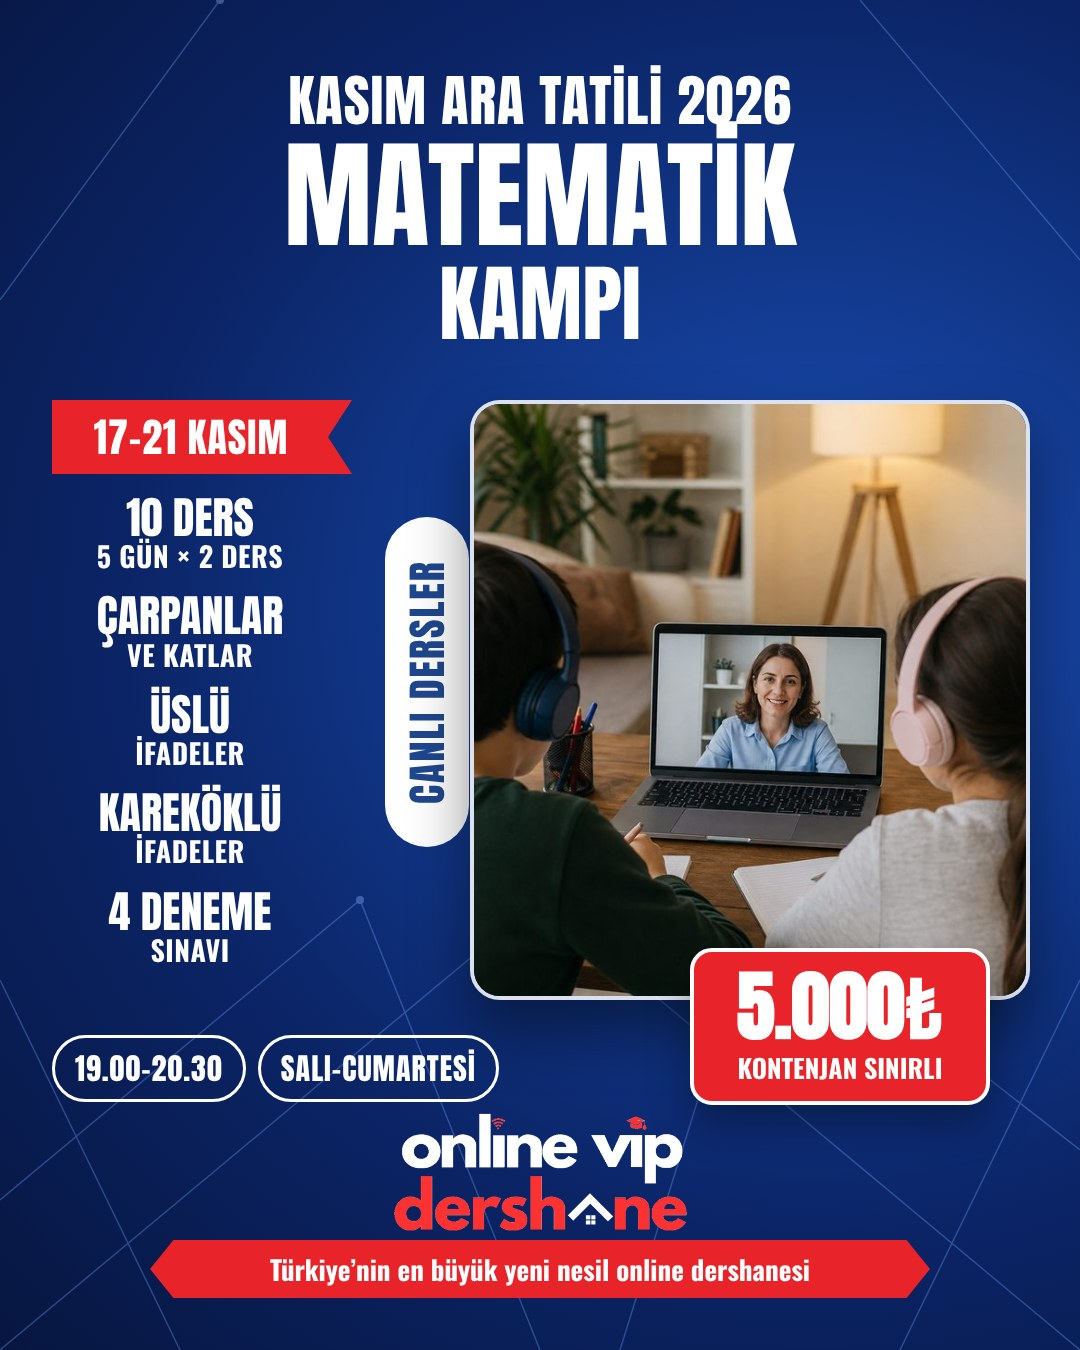
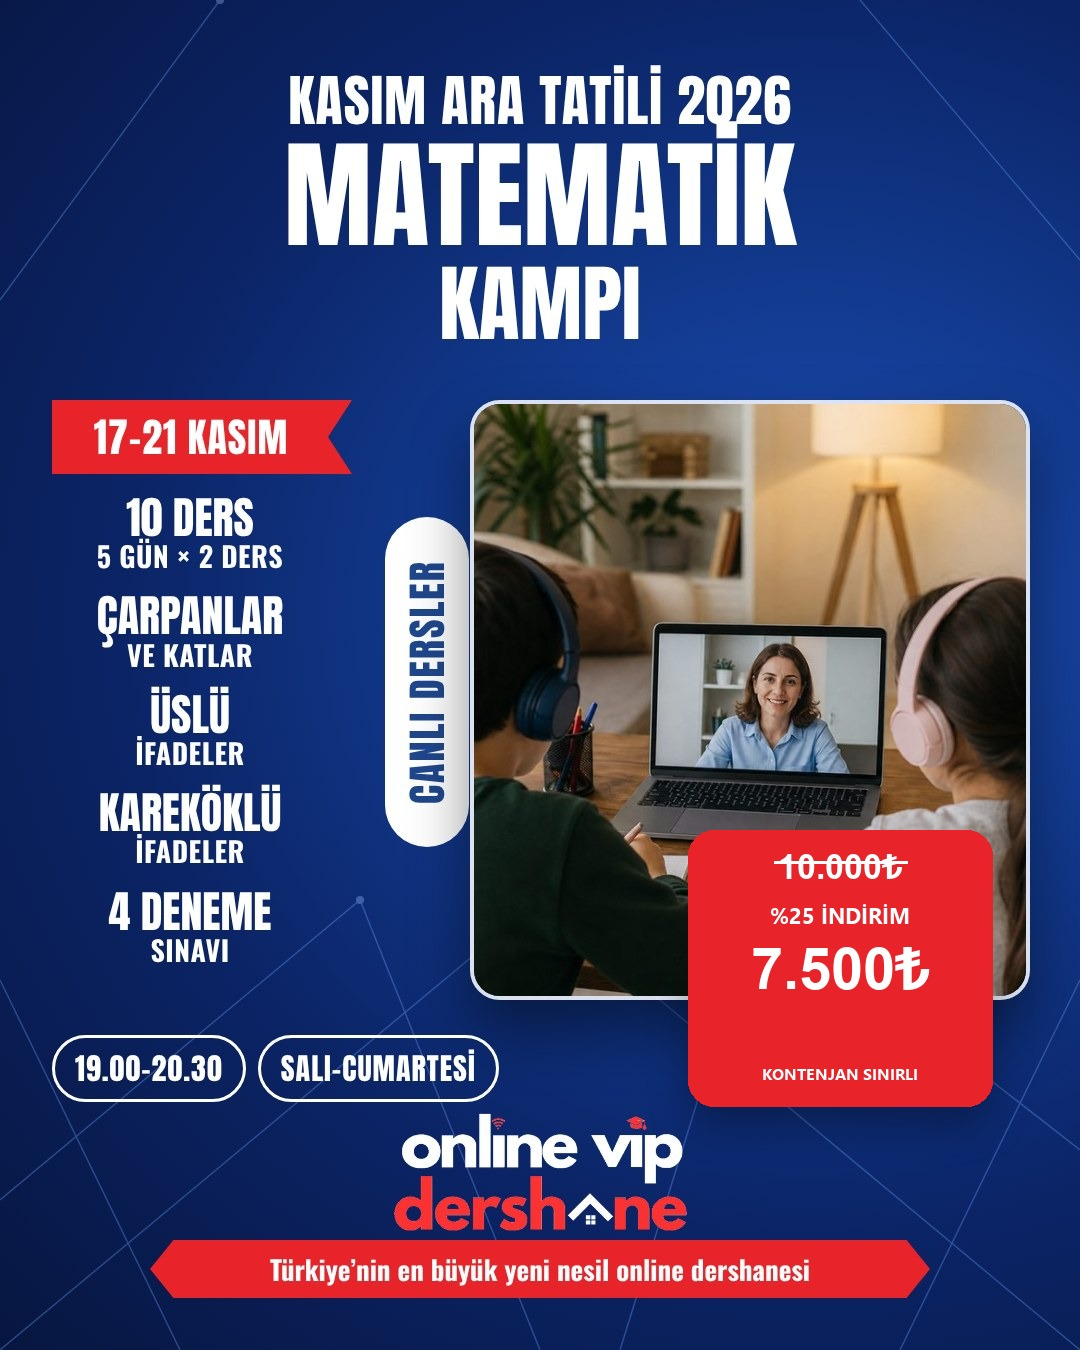
fix: Kasim ara tatil kamplari 10.000 TL yerine yuzde 25 indirimle 7.500 TL
Satis tutari 7.500 TL. Afislerde liste fiyatinin ustu cizili.

Changed region(s): [[0.6111, 0.5911, 0.9472, 0.84]]

diff --git a/programlar/ara-tatil-kamplari.html b/programlar/ara-tatil-kamplari.html
@@ -4,8 +4,8 @@
 <meta charset="UTF-8">
 <meta name="viewport" content="width=device-width,initial-scale=1.0">
 <title>Kasım Ara Tatil Kampları 2026 — Matematik ve Paragraf | Online VIP Dershane</title>
-<meta property="og:image" content="https://onlinevipdershane.com/assets/img/programlar/ara-tatil-matematik.jpg">
-<meta name="description" content="Kasım ara tatilinde online canlı kamplar: 17-21 Kasım 10 derslik Matematik Kampı ve 17-20 Kasım 7-8. sınıflara Paragraf Teknikleri Kampı. Her kamp 5.000₺.">
+<meta property="og:image" content="https://onlinevipdershane.com/assets/img/programlar/ara-tatil-matematik.jpg?v=20261110b">
+<meta name="description" content="Kasım ara tatilinde online canlı kamplar: 17-21 Kasım 10 derslik Matematik Kampı ve 17-20 Kasım 7-8. sınıflara Paragraf Teknikleri Kampı. Liste 10.000₺, %25 indirimle 7.500₺.">
 <link rel="canonical" href="https://onlinevipdershane.com/programlar/ara-tatil-kamplari.html">
[1 lines of base64/hex data omitted]
 <link href="https://fonts.googleapis.com/css2?family=Bricolage+Grotesque:wght@700;800&family=Nunito:wght@400;600;700&display=swap" rel="stylesheet">
@@ -128,9 +128,11 @@ a{text-decoration:none;color:inherit;}
 .at-chips{display:flex;flex-wrap:wrap;gap:6px;}
 .at-chips span{background:#f0f5ff;border:1px solid #dde6ff;color:#1a3fad;padding:4px 11px;border-radius:100px;font-size:12px;font-weight:700;}
 .at-camp .feat-list{margin:4px 0 6px;}
-.at-price{display:flex;align-items:baseline;gap:6px;margin-top:auto;}
+.at-price{display:flex;flex-wrap:wrap;align-items:baseline;gap:8px;margin-top:auto;}
+.at-price .at-old{font-size:18px;font-weight:700;color:#8e8e93;text-decoration:line-through;}
 .at-price strong{font-family:"Bricolage Grotesque",sans-serif;font-size:32px;font-weight:800;color:#1a1f36;}
 .at-price span{font-size:13px;color:#6e6e73;}
+.at-price .at-off{font-size:12px;font-weight:800;color:#e8232a;background:rgba(232,35,42,.08);border-radius:999px;padding:3px 8px;}
 .at-btns{display:flex;flex-wrap:wrap;gap:8px;}
 .at-btns .yk-btn{flex:1;}
 .at-hero-posters{display:flex;gap:12px;}
@@ -197,7 +199,7 @@ height="0" width="0" style="display:none;visibility:hidden"></iframe></noscript>
           <div style="height:1px;background:#f0f0f0;margin:4px 0;"></div>
           <a href="ara-tatil-kamplari.html" style="display:flex;align-items:center;gap:10px;padding:8px 10px;border-radius:8px;font-size:13px;font-weight:600;color:#1a1f36;text-decoration:none;">
             <span class="prog-list-icon" data-icon="tent"></span>
-            <span><span style="display:block;font-weight:700;font-size:13px;">Ara Tatil Kampları</span><span style="font-size:11px;color:#6e6e73;">5.000₺ · 17-21 Kasım</span></span>
+            <span><span style="display:block;font-weight:700;font-size:13px;">Ara Tatil Kampları</span><span style="font-size:11px;color:#6e6e73;"><span style="text-decoration:line-through;color:#8e8e93;margin-right:4px;">10.000₺</span>7.500₺ · %25 · 17-21 Kasım</span></span>
           </a>
           <a href="kamplar.html" style="display:flex;align-items:center;gap:10px;padding:8px 10px;border-radius:8px;font-size:13px;font-weight:600;color:#1a1f36;text-decoration:none;">
             <span class="prog-list-icon" data-icon="tent"></span>
@@ -268,7 +270,7 @@ height="0" width="0" style="display:none;visibility:hidden"></iframe></noscript>
     <div class="prog-hero-copy">
       <div class="prog-tag"><span class="ovd-icon-inline" data-icon="tent"></span> Kasım Ara Tatili &#183; 17-21 Kasım 2026 &#183; Online Canlı</div>
       <h1>Kasım Ara Tatil Kampları</h1>
-      <p>Ara tatil boşa geçmesin. Evden, canlı ve küçük gruplarla iki yoğun kamp: 10 derslik Matematik Kampı ve 7-8. sınıflara özel Paragraf Teknikleri Kampı. Her kamp 5.000&#8378;.</p>
+      <p>Ara tatil boşa geçmesin. Evden, canlı ve küçük gruplarla iki yoğun kamp: 10 derslik Matematik Kampı ve 7-8. sınıflara özel Paragraf Teknikleri Kampı. Her kamp <s>10.000&#8378;</s> yerine %25 indirimle 7.500&#8378;.</p>
       <div class="prog-meta">
         <span><span class="ovd-icon-inline" data-icon="monitor"></span> Online Canlı</span>
         <span><span class="ovd-icon-inline" data-icon="target"></span> Matematik · Paragraf</span>
@@ -280,8 +282,8 @@ height="0" width="0" style="display:none;visibility:hidden"></iframe></noscript>
       </div>
     </div>
     <div class="at-hero-posters">
-      <img src="../assets/img/programlar/ara-tatil-matematik.jpg" alt="Ara Tatil Matematik Kampı — 17-21 Kasım, 10 ders, 5.000₺" loading="eager" width="1080" height="1350">
-      <img src="../assets/img/programlar/ara-tatil-paragraf.jpg" alt="Paragraf Teknikleri Kampı — 17-20 Kasım, 7-8. sınıf, 5.000₺" loading="eager" width="1080" height="1350">
+      <img src="../assets/img/programlar/ara-tatil-matematik.jpg?v=20261110b" alt="Ara Tatil Matematik Kampı — 17-21 Kasım, 10 ders, 10.000₺ yerine 7.500₺" loading="eager" width="1080" height="1350">
+      <img src="../assets/img/programlar/ara-tatil-paragraf.jpg?v=20261110b" alt="Paragraf Teknikleri Kampı — 17-20 Kasım, 7-8. sınıf, 10.000₺ yerine 7.500₺" loading="eager" width="1080" height="1350">
     </div>
   </div>
 </section>
@@ -289,10 +291,10 @@ height="0" width="0" style="display:none;visibility:hidden"></iframe></noscript>
 <section class="yk-sec yk-sec-alt" id="fiyatlar">
   <div class="yk-wrap">
     <h2 class="yk-h2">İki kamp, tek ara tatil</h2>
-    <p class="yk-lead">İki kamp da online ve canlı. İsterseniz birini, isterseniz ikisini birlikte seçebilirsiniz; her kamp için ücret 5.000&#8378;, ek ücret yok.</p>
+    <p class="yk-lead">İki kamp da online ve canlı. İsterseniz birini, isterseniz ikisini birlikte seçebilirsiniz. Liste fiyatı 10.000&#8378;, %25 indirimle satış fiyatı 7.500&#8378;; ek ücret yok.</p>
     <div class="at-camps">
       <article class="at-camp" id="matematik">
-        <img src="../assets/img/programlar/ara-tatil-matematik.jpg" alt="Ara Tatil Matematik Kampı afişi" loading="lazy" width="1080" height="1350">
+        <img src="../assets/img/programlar/ara-tatil-matematik.jpg?v=20261110b" alt="Ara Tatil Matematik Kampı afişi" loading="lazy" width="1080" height="1350">
         <div class="at-camp-body">
           <h3>Ara Tatil Matematik Kampı</h3>
           <div class="at-chips"><span>17–21 Kasım</span><span>Salı–Cumartesi</span><span>19.00–20.30</span></div>
@@ -302,7 +304,7 @@ height="0" width="0" style="display:none;visibility:hidden"></iframe></noscript>
             <div class="feat-item">1 Genel Deneme + 3 Konu Tarama Testi (KTT) — toplam 4 deneme</div>
             <div class="feat-item">Denemelerle öğrenme düzeyi ölçülür, eksikler kamp içinde kapatılır</div>
           </div>
-          <div class="at-price"><strong>5.000 &#8378;</strong><span>/ kamp · tek ödeme</span></div>
+          <div class="at-price"><s class="at-old">10.000 &#8378;</s><span class="at-off">%25 indirim</span><strong>7.500 &#8378;</strong><span>/ kamp · tek ödeme</span></div>
           <div class="at-btns">
             <button type="button" class="yk-btn yk-btn-primary" onclick="ykSepet('araTatilMatematik')">Hemen Başvur</button>
             <a href="https://wa.me/905061877494?text=Merhaba%2C+Ara+Tatil+Matematik+Kamp%C4%B1+hakk%C4%B1nda+bilgi+almak+istiyorum." target="_blank" rel="noopener" class="yk-btn yk-btn-wa">WhatsApp</a>
@@ -310,7 +312,7 @@ height="0" width="0" style="display:none;visibility:hidden"></iframe></noscript>
         </div>
       </article>
       <article class="at-camp" id="paragraf">
-        <img src="../assets/img/programlar/ara-tatil-paragraf.jpg" alt="Paragraf Teknikleri Kampı afişi" loading="lazy" width="1080" height="1350">
+        <img src="../assets/img/programlar/ara-tatil-paragraf.jpg?v=20261110b" alt="Paragraf Teknikleri Kampı afişi" loading="lazy" width="1080" height="1350">
         <div class="at-camp-body">
           <h3>Paragraf Teknikleri Kampı</h3>
           <div class="at-chips"><span>17-18-19-20 Kasım</span><span>4 Gün</span><span>7-8. Sınıf</span></div>
@@ -320,7 +322,7 @@ height="0" width="0" style="display:none;visibility:hidden"></iframe></noscript>
             <div class="feat-item">Soruyu tekrar tekrar okumadan, adım adım ve sistemli çözüm</div>
             <div class="feat-item">Kampa katılan her öğrenciye Paragraf Sözlüğü hediye</div>
           </div>
-          <div class="at-price"><strong>5.000 &#8378;</strong><span>/ kamp · tek ödeme</span></div>
+          <div class="at-price"><s class="at-old">10.000 &#8378;</s><span class="at-off">%25 indirim</span><strong>7.500 &#8378;</strong><span>/ kamp · tek ödeme</span></div>
           <div class="at-btns">
             <button type="button" class="yk-btn yk-btn-primary" onclick="ykSepet('araTatilParagraf')">Hemen Başvur</button>
             <a href="https://wa.me/905061877494?text=Merhaba%2C+Paragraf+Teknikleri+Kamp%C4%B1+hakk%C4%B1nda+bilgi+almak+istiyorum." target="_blank" rel="noopener" class="yk-btn yk-btn-wa">WhatsApp</a>
@@ -412,8 +414,8 @@ function ykSepet(id){
 <script src="../assets/icons.js" defer></script>
 <script src="../assets/academic-pricing.js?v=20261001a"></script>
 <script src="../assets/deneme-kulubu-data.js?v=1"></script>
-<script src="../assets/products.js?v=20261012a"></script>
-<script src="../assets/cart.js?v=20261012a"></script>
+<script src="../assets/products.js?v=20261110b"></script>
+<script src="../assets/cart.js?v=20261110b"></script>
 <script src="https://www.dersonlinevipkocluk.com/crm-site-lead.js" defer></script>
 <script src="../assets/wa-float.js" defer></script>
 <script src="../assets/perf-analytics.js" defer></script>

diff --git a/index.html b/index.html
@@ -869,7 +869,7 @@ height="0" width="0" style="display:none;visibility:hidden"></iframe></noscript>
         <div class="prog-list-divider"></div>
         <a href="/programlar/ara-tatil-kamplari.html">
           <span class="prog-list-icon" data-icon="tent"></span>
-          <span class="prog-list-info"><span class="prog-list-name">Ara Tatil Kampları</span><span class="prog-list-price">5.000₺ · 17-21 Kasım · Matematik & Paragraf</span></span>
+          <span class="prog-list-info"><span class="prog-list-name">Ara Tatil Kampları</span><span class="prog-list-price"><span class="prog-list-old">10.000₺</span>7.500₺ · %25 · 17-21 Kasım</span></span>
         </a>
         <a href="/programlar/kamplar.html">
           <span class="prog-list-icon" data-icon="tent"></span>
@@ -987,15 +987,15 @@ height="0" width="0" style="display:none;visibility:hidden"></iframe></noscript>
           <div class="hero-text">
             <div class="hero-badge" style="background:rgba(232,35,42,.08);border-color:rgba(232,35,42,.15);color:#e8232a;">Kasım ara tatili · 17-21 Kasım · Kontenjan sınırlı</div>
             <h2 class="hero-title">Ara Tatil<br><span style="color:#1a3fad;">Kampları</span> <span style="color:#e8232a;">başlıyor</span></h2>
-            <p class="hero-desc">10 derslik Matematik Kampı (çarpanlar ve katlar, üslü ve kareköklü ifadeler, 4 deneme) ve 7-8. sınıflara özel Paragraf Teknikleri Kampı. Evden canlı ders, her kamp 5.000₺.</p>
+            <p class="hero-desc">10 derslik Matematik Kampı (çarpanlar ve katlar, üslü ve kareköklü ifadeler, 4 deneme) ve 7-8. sınıflara özel Paragraf Teknikleri Kampı. Evden canlı ders, her kamp <s>10.000₺</s> yerine %25 indirimle 7.500₺.</p>
             <div class="hero-btns">
               <a href="programlar/ara-tatil-kamplari.html" class="hbtn-red">Kampları İncele</a>
               <a href="programlar/ara-tatil-kamplari.html#fiyatlar" class="hbtn-outline" style="color:#1a3fad;border-color:#1a3fad;">Hemen Başvur →</a>
             </div>
           </div>
           <div class="hero-visual hero-visual--posters">
-            <img src="assets/img/programlar/ara-tatil-matematik.jpg" alt="Ara Tatil Matematik Kampı — 17-21 Kasım, 5.000₺" loading="lazy" decoding="async" width="1080" height="1350">
-            <img src="assets/img/programlar/ara-tatil-paragraf.jpg" alt="Paragraf Teknikleri Kampı — 17-20 Kasım, 5.000₺" loading="lazy" decoding="async" width="1080" height="1350">
+            <img src="assets/img/programlar/ara-tatil-matematik.jpg?v=20261110b" alt="Ara Tatil Matematik Kampı — 17-21 Kasım, 10.000₺ yerine 7.500₺" loading="lazy" decoding="async" width="1080" height="1350">
+            <img src="assets/img/programlar/ara-tatil-paragraf.jpg?v=20261110b" alt="Paragraf Teknikleri Kampı — 17-20 Kasım, 10.000₺ yerine 7.500₺" loading="lazy" decoding="async" width="1080" height="1350">
           </div>
         </div>
       </div>
@@ -1485,23 +1485,23 @@ if('requestIdleCallback' in window){requestIdleCallback(function(){loadHeroImg(1
       </a>
       <a href="/programlar/ara-tatil-kamplari.html#matematik" class="prog-card">
         <div class="prog-thumb">
-          <img src="assets/img/programlar/ara-tatil-matematik.jpg" alt="Ara Tatil Matematik Kampı — 17-21 Kasım" loading="lazy" width="400" height="500">
+          <img src="assets/img/programlar/ara-tatil-matematik.jpg?v=20261110b" alt="Ara Tatil Matematik Kampı — 17-21 Kasım" loading="lazy" width="400" height="500">
         </div>
         <div class="prog-card-body">
         <h3>Ara Tatil Matematik Kampı</h3>
         <p>17-21 Kasım · 10 ders. Çarpanlar ve katlar, üslü ve kareköklü ifadeler, 4 deneme.</p>
-        <div class="prog-price">5.000₺ <span>/ kamp</span></div>
+        <div class="prog-price"><s style="color:#8e8e93;font-size:.75em;margin-right:6px;">10.000₺</s>7.500₺ <span>/ kamp · %25</span></div>
         <span class="prog-arrow">→</span>
         </div>
       </a>
       <a href="/programlar/ara-tatil-kamplari.html#paragraf" class="prog-card">
         <div class="prog-thumb">
-          <img src="assets/img/programlar/ara-tatil-paragraf.jpg" alt="Paragraf Teknikleri Kampı — 17-20 Kasım" loading="lazy" width="400" height="500">
+          <img src="assets/img/programlar/ara-tatil-paragraf.jpg?v=20261110b" alt="Paragraf Teknikleri Kampı — 17-20 Kasım" loading="lazy" width="400" height="500">
         </div>
         <div class="prog-card-body">
         <h3>Paragraf Teknikleri Kampı</h3>
         <p>17-20 Kasım · 7-8. sınıf · 8 ders. Paragraf Sözlüğü hediye.</p>
-        <div class="prog-price">5.000₺ <span>/ kamp</span></div>
+        <div class="prog-price"><s style="color:#8e8e93;font-size:.75em;margin-right:6px;">10.000₺</s>7.500₺ <span>/ kamp · %25</span></div>
         <span class="prog-arrow">→</span>
         </div>
       </a>
@@ -1883,9 +1883,9 @@ document.addEventListener('click',function(e){
 <script src="assets/testimonials.js" defer></script>
 <script src="assets/academic-pricing.js?v=20261001a" defer></script>
 <script src="assets/deneme-kulubu-data.js?v=1"></script>
-<script src="assets/products.js?v=20261012a" defer></script>
+<script src="assets/products.js?v=20261110b" defer></script>
 <script src="assets/education-pricing.js?v=2" defer></script>
-<script src="assets/cart.js?v=20261012a" defer></script>
+<script src="assets/cart.js?v=20261110b" defer></script>
 <script src="assets/teacher-video.js?v=20260813a" defer></script>
 <script src="assets/prog-hover-video.js?v=5" defer></script>
 <script src="assets/welcome-modal.js?v=20260930a" defer></script>

diff --git a/scripts/test-ara-tatil-kamplari.js b/scripts/test-ara-tatil-kamplari.js
@@ -5,17 +5,19 @@ var products = require('../api/_lib/products.js');
 
 var html = fs.readFileSync(path.join(__dirname, '..', 'programlar', 'ara-tatil-kamplari.html'), 'utf8');
 
-/** Kasım 2026 ara tatil kampları: her biri 5.000 TL, dönemlik fiyatlamaya tabi değil */
+/** Kasım 2026 ara tatil kampları: liste 10.000 TL, satış %25 indirimle 7.500 TL */
 ['araTatilMatematik', 'araTatilParagraf'].forEach(function (id) {
   var p = products.PRODUCTS[id];
   assert.ok(p, id + ' katalogda yok');
-  assert.strictEqual(p.price, 5000, id + ' katalog fiyati');
+  assert.strictEqual(p.price, 7500, id + ' satis fiyati');
+  assert.strictEqual(p.listPrice, 10000, id + ' liste fiyati');
   var satir = products.resolveLineItems([{ id: id, qty: 1 }], new Date('2026-11-10T12:00:00+03:00'))[0];
-  assert.strictEqual(satir.unitAmount, 500000, id + ' odenecek tutar sabit kalmali');
+  assert.strictEqual(satir.unitAmount, 750000, id + ' odenecek tutar 7.500 TL olmali');
   assert.ok(html.indexOf("ykSepet('" + id + "')") !== -1, id + ' sepet butonu yok');
 });
 
-assert.ok(html.indexOf('5.000 &#8378;') !== -1, 'tutar sayfada gorunmuyor');
+assert.ok(html.indexOf('7.500 &#8378;') !== -1, 'satis tutari sayfada gorunmuyor');
+assert.ok(html.indexOf('10.000 &#8378;') !== -1, 'ustu cizili liste fiyati yok');
 assert.ok(html.indexOf('17–21 Kasım') !== -1, 'matematik tarihi yok');
 assert.ok(html.indexOf('17-18-19-20 Kasım') !== -1, 'paragraf tarihi yok');
 assert.ok(html.indexOf('905061877494') !== -1, 'WhatsApp numarasi 0506 olmali');

diff --git a/api/_lib/products.js b/api/_lib/products.js
@@ -41,8 +41,8 @@ const PRODUCTS = {
   yazili: { id: 'yazili', name: 'Yazılıya Hazırlık Kampı — Lise (9-10-11)', price: 3500 },
   paragrafKampi: { id: 'paragrafKampi', name: 'Paragraf Kampı (LGS · YKS) — 8 Ders Saati', price: 3500 },
   // Kasım 2026 ara tatil kampları (tek seferlik, sabit fiyat)
-  araTatilMatematik: { id: 'araTatilMatematik', name: 'Ara Tatil Matematik Kampı — 17-21 Kasım · 10 Ders', price: 5000 },
-  araTatilParagraf: { id: 'araTatilParagraf', name: 'Ara Tatil Paragraf Teknikleri Kampı — 17-20 Kasım · 7-8. Sınıf', price: 5000 },
+  araTatilMatematik: { id: 'araTatilMatematik', name: 'Ara Tatil Matematik Kampı — 17-21 Kasım · 10 Ders', price: 7500, listPrice: 10000 },
+  araTatilParagraf: { id: 'araTatilParagraf', name: 'Ara Tatil Paragraf Teknikleri Kampı — 17-20 Kasım · 7-8. Sınıf', price: 7500, listPrice: 10000 },
   yaziliOrtaokul: { id: 'yaziliOrtaokul', name: 'Yazılıya Hazırlık Kampı — Ortaokul (5-6-7-8)', price: 3000 },
   yaziliLisePaket: { id: 'yaziliLisePaket', name: 'Yazılıya Hazırlık Kampı — Lise · 4 Dönem Paketi', price: 11990 },
   yaziliOrtaokulPaket: { id: 'yaziliOrtaokulPaket', name: 'Yazılıya Hazırlık Kampı — Ortaokul · 4 Dönem Paketi', price: 9990 },

diff --git a/assets/products.js b/assets/products.js
@@ -186,7 +186,8 @@
       id: 'araTatilMatematik',
       name: 'Ara Tatil Matematik Kampı',
       subtitle: '17-21 Kasım · 10 ders · 4 deneme',
-      price: 5000,
+      price: 7500,
+      listPrice: 10000,
       period: 'kamp',
       slug: 'programlar/ara-tatil-kamplari.html',
       chooseOnPage: 'programlar/ara-tatil-kamplari.html#fiyatlar',
@@ -195,7 +196,8 @@
       id: 'araTatilParagraf',
       name: 'Ara Tatil Paragraf Teknikleri Kampı',
       subtitle: '17-20 Kasım · 7-8. Sınıf · 8 ders',
-      price: 5000,
+      price: 7500,
+      listPrice: 10000,
       period: 'kamp',
       slug: 'programlar/ara-tatil-kamplari.html',
       chooseOnPage: 'programlar/ara-tatil-kamplari.html#fiyatlar',

diff --git a/programlar/ilkokul.html b/programlar/ilkokul.html
@@ -296,9 +296,9 @@ function showToast(){
 <script src="../assets/prog-hover-video.js?v=3"></script>
 <script src="../assets/academic-pricing.js?v=20261001a"></script>
 <script src="../assets/deneme-kulubu-data.js?v=1"></script>
-<script src="../assets/products.js?v=20261012a"></script>
+<script src="../assets/products.js?v=20261110b"></script>
 <script src="../assets/education-pricing.js?v=2"></script>
-<script src="../assets/cart.js?v=20261012a"></script>
+<script src="../assets/cart.js?v=20261110b"></script>
   <script src="../assets/welcome-modal.js"></script>
 <script src="https://www.dersonlinevipkocluk.com/crm-site-lead.js" defer></script>
 <script src="../assets/wa-float.js" defer></script>

diff --git a/programlar/kocluk.html b/programlar/kocluk.html
@@ -326,9 +326,9 @@ function showToast(){
 <script src="../assets/prog-hover-video.js?v=3"></script>
 <script src="../assets/academic-pricing.js?v=20261001a"></script>
 <script src="../assets/deneme-kulubu-data.js?v=1"></script>
-<script src="../assets/products.js?v=20261012a"></script>
+<script src="../assets/products.js?v=20261110b"></script>
 <script src="../assets/education-pricing.js?v=2"></script>
-<script src="../assets/cart.js?v=20261012a"></script>
+<script src="../assets/cart.js?v=20261110b"></script>
   <script src="../assets/welcome-modal.js"></script>
 <script src="https://www.dersonlinevipkocluk.com/crm-site-lead.js" defer></script>
 <script src="../assets/wa-float.js" defer></script>

diff --git a/programlar/sinif-2.html b/programlar/sinif-2.html
@@ -322,9 +322,9 @@ function showToast(){
 <script src="../assets/prog-hover-video.js?v=3"></script>
 <script src="../assets/academic-pricing.js?v=20261001a"></script>
 <script src="../assets/deneme-kulubu-data.js?v=1"></script>
-<script src="../assets/products.js?v=20261012a"></script>
+<script src="../assets/products.js?v=20261110b"></script>
 <script src="../assets/education-pricing.js?v=2"></script>
-<script src="../assets/cart.js?v=20261012a"></script>
+<script src="../assets/cart.js?v=20261110b"></script>
   <script src="../assets/welcome-modal.js"></script>
 <script src="https://www.dersonlinevipkocluk.com/crm-site-lead.js" defer></script>
 <script src="../assets/wa-float.js" defer></script>

diff --git a/programlar/yks-matematik-geometri.html b/programlar/yks-matematik-geometri.html
@@ -326,9 +326,9 @@ function showToast(){
 <script src="../assets/prog-hover-video.js?v=3"></script>
 <script src="../assets/academic-pricing.js?v=20261001a"></script>
 <script src="../assets/deneme-kulubu-data.js?v=1"></script>
-<script src="../assets/products.js?v=20261012a"></script>
+<script src="../assets/products.js?v=20261110b"></script>
 <script src="../assets/education-pricing.js?v=2"></script>
-<script src="../assets/cart.js?v=20261012a"></script>
+<script src="../assets/cart.js?v=20261110b"></script>
   <script src="../assets/welcome-modal.js"></script>
 <script src="https://www.dersonlinevipkocluk.com/crm-site-lead.js" defer></script>
 <script src="../assets/wa-float.js" defer></script>

diff --git a/programlar/ortaokul.html b/programlar/ortaokul.html
@@ -295,9 +295,9 @@ function showToast(){
 <script src="../assets/icons.js" defer></script>
 <script src="../assets/academic-pricing.js?v=20261001a"></script>
 <script src="../assets/deneme-kulubu-data.js?v=1"></script>
-<script src="../assets/products.js?v=20261012a"></script>
+<script src="../assets/products.js?v=20261110b"></script>
 <script src="../assets/education-pricing.js?v=2"></script>
-<script src="../assets/cart.js?v=20261012a"></script>
+<script src="../assets/cart.js?v=20261110b"></script>
   <script src="../assets/welcome-modal.js"></script>
 <script src="../assets/prog-hover-video.js?v=3"></script>
 <script src="https://www.dersonlinevipkocluk.com/crm-site-lead.js" defer></script>

diff --git a/programlar/lise.html b/programlar/lise.html
@@ -291,9 +291,9 @@ function showToast(){
 <script src="../assets/icons.js" defer></script>
 <script src="../assets/academic-pricing.js?v=20261001a"></script>
 <script src="../assets/deneme-kulubu-data.js?v=1"></script>
-<script src="../assets/products.js?v=20261012a"></script>
+<script src="../assets/products.js?v=20261110b"></script>
 <script src="../assets/education-pricing.js?v=2"></script>
-<script src="../assets/cart.js?v=20261012a"></script>
+<script src="../assets/cart.js?v=20261110b"></script>
   <script src="../assets/welcome-modal.js"></script>
 <script src="https://www.dersonlinevipkocluk.com/crm-site-lead.js" defer></script>
 <script src="../assets/wa-float.js" defer></script>

diff --git a/programlar/index.html b/programlar/index.html
@@ -897,9 +897,9 @@ height="0" width="0" style="display:none;visibility:hidden"></iframe></noscript>
 <script src="../assets/icons.js?v=20260910c"></script>
 <script src="../assets/academic-pricing.js?v=20261001a"></script>
 <script src="../assets/deneme-kulubu-data.js?v=1"></script>
-<script src="../assets/products.js?v=20261012a"></script>
+<script src="../assets/products.js?v=20261110b"></script>
 <script src="../assets/education-pricing.js?v=2"></script>
-<script src="../assets/cart.js?v=20261012a"></script>
+<script src="../assets/cart.js?v=20261110b"></script>
 <script src="../assets/teacher-video.js?v=20260813a"></script>
 <script src="../assets/prog-hover-video.js?v=5"></script>
 
